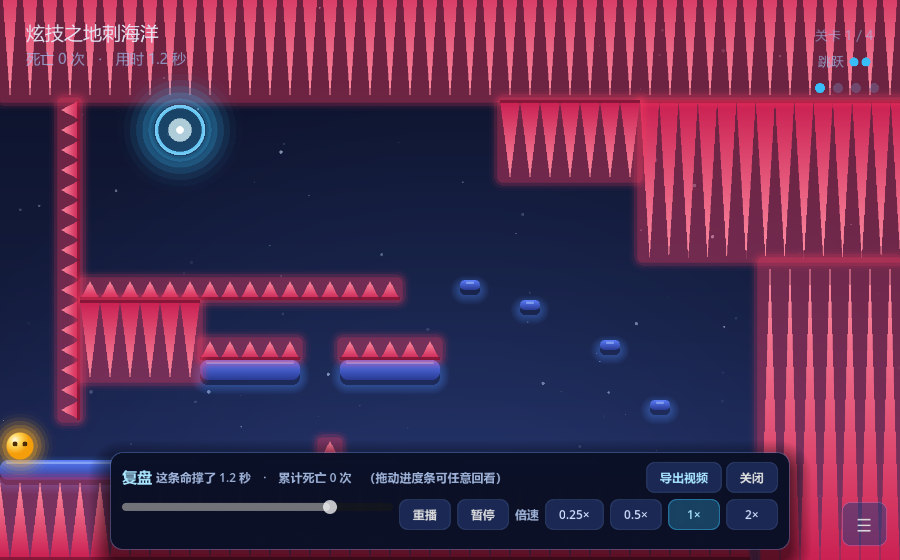
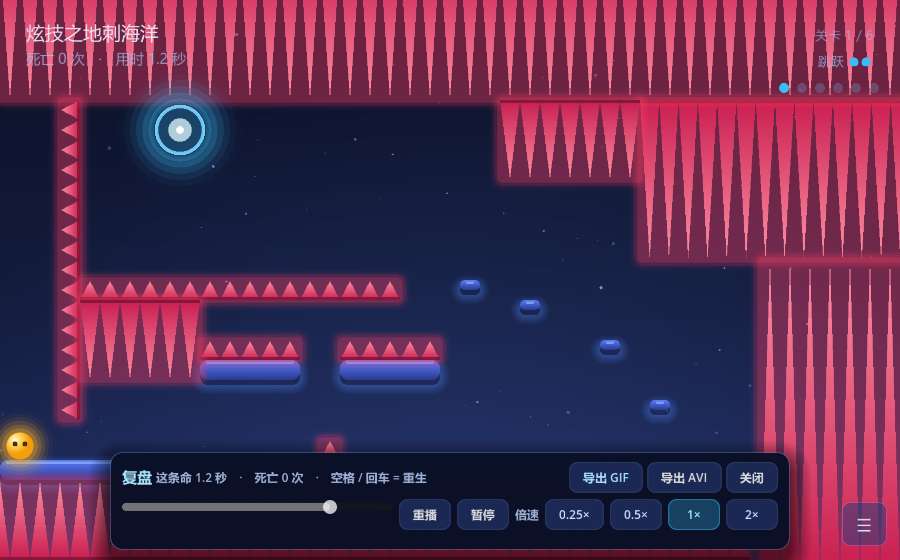
Respawn with a key: space or enter dismisses the death replay
- space / enter / keypad-enter now close the replay panel (and press the primary button on the win overlay), so dying no longer needs the mouse

- only active while a panel is actually up, so space stays the jump key during play

- world.sync_jump_state() so holding jump while dismissing does not turn into a jump on respawn

- panel hint now says 空格 / 回车 = 重生

- tests/replay_test.gd: 13 more checks (space, enter, overlay enter, space still jumps, jump-sync)

Changed region(s): [[0.2178, 0.8196, 0.56, 0.8804], [0.6222, 0.8196, 0.8089, 0.8804], [0.8711, 0.1518, 0.9333, 0.1821]]

diff --git a/README.md b/README.md
@@ -20,6 +20,7 @@
 | 变速（TAS） | `[` `]` 在 0.1x ~ 3x 间切换，`\` 重置 |
 | 冻结 / 逐帧 | `P` 冻结，冻结时 `F` 单步 |
 | 复盘回放 | 死亡后自动弹出；通关浮层上有「复盘刚才这一局」；也可以随时按 `R` 手动回放 |
+| 重生 / 继续 | `空格` 或 `回车`（浮层开着时），`Esc` 也可以 —— 不用动鼠标 |
 | 菜单 / 返回 | `Esc` |
 
 ### 关卡元素
